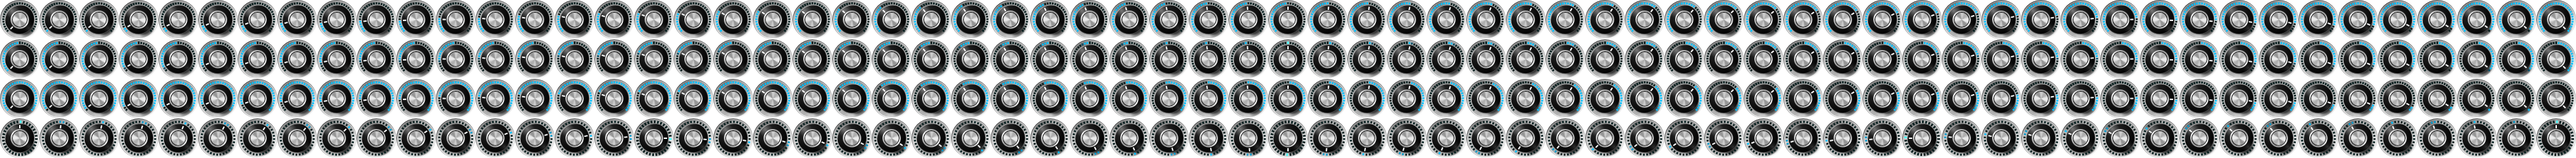
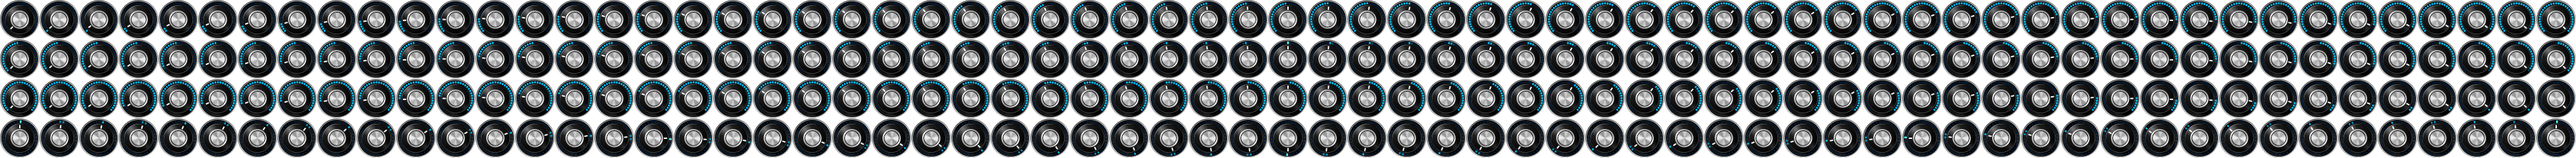
more cleanup in monosynth UI knob3 reworked (black ring)

Changed region(s): [[0.0, 0.0, 1.0, 1.0]]

diff --git a/src/metadata.cpp b/src/metadata.cpp
@@ -563,13 +563,13 @@ CALF_PORT_PROPS(multibandlimiter) = {
     
     { 0.2f,      -1.f,         1.f,   0,  PF_FLOAT | PF_SCALE_LINEAR | PF_CTL_KNOB | PF_UNIT_COEF | PF_PROP_GRAPH, NULL, "weight0", "Weight 1" },
     { -0.2f,      -1.f,         1.f,   0,  PF_FLOAT | PF_SCALE_LINEAR | PF_CTL_KNOB | PF_UNIT_COEF | PF_PROP_GRAPH, NULL, "weight1", "Weight 2" },
-    { 0.1f,      -1.f,         1.f,   0,  PF_FLOAT | PF_SCALE_LINEAR | PF_CTL_KNOB | PF_UNIT_COEF | PF_PROP_GRAPH, NULL, "weight2", "Weight 3" },
-    { 0.f,      -1.f,         1.f,   0,  PF_FLOAT | PF_SCALE_LINEAR | PF_CTL_KNOB | PF_UNIT_COEF | PF_PROP_GRAPH, NULL, "weight3", "Weight 4" },
+    { 0.2f,      -1.f,         1.f,   0,  PF_FLOAT | PF_SCALE_LINEAR | PF_CTL_KNOB | PF_UNIT_COEF | PF_PROP_GRAPH, NULL, "weight2", "Weight 3" },
+    { -0.2f,      -1.f,         1.f,   0,  PF_FLOAT | PF_SCALE_LINEAR | PF_CTL_KNOB | PF_UNIT_COEF | PF_PROP_GRAPH, NULL, "weight3", "Weight 4" },
     
-    { 0.4f,      -1.f,         1.f,   0,  PF_FLOAT | PF_SCALE_LINEAR | PF_CTL_KNOB | PF_UNIT_COEF | PF_PROP_GRAPH, NULL, "release0", "Release 1" },
+    { 0.5f,      -1.f,         1.f,   0,  PF_FLOAT | PF_SCALE_LINEAR | PF_CTL_KNOB | PF_UNIT_COEF | PF_PROP_GRAPH, NULL, "release0", "Release 1" },
     { 0.2f,      -1.f,         1.f,   0,  PF_FLOAT | PF_SCALE_LINEAR | PF_CTL_KNOB | PF_UNIT_COEF | PF_PROP_GRAPH, NULL, "release1", "Release 2" },
-    { 0.f,      -1.f,         1.f,   0,  PF_FLOAT | PF_SCALE_LINEAR | PF_CTL_KNOB | PF_UNIT_COEF | PF_PROP_GRAPH, NULL, "release2", "Release 3" },
-    { -0.2f,      -1.f,         1.f,   0,  PF_FLOAT | PF_SCALE_LINEAR | PF_CTL_KNOB | PF_UNIT_COEF | PF_PROP_GRAPH, NULL, "release3", "Release 4" },
+    { -0.2f,      -1.f,         1.f,   0,  PF_FLOAT | PF_SCALE_LINEAR | PF_CTL_KNOB | PF_UNIT_COEF | PF_PROP_GRAPH, NULL, "release2", "Release 3" },
+    { -0.5f,      -1.f,         1.f,   0,  PF_FLOAT | PF_SCALE_LINEAR | PF_CTL_KNOB | PF_UNIT_COEF | PF_PROP_GRAPH, NULL, "release3", "Release 4" },
     
     { 0,           0,           1,     0,  PF_BOOL | PF_CTL_TOGGLE, NULL, "solo0", "Solo 1" },
     { 0,           0,           1,     0,  PF_BOOL | PF_CTL_TOGGLE, NULL, "solo1", "Solo 2" },

diff --git a/knobs/knob3.py b/knobs/knob3.py
@@ -94,7 +94,7 @@ for variant in range(0, 4):
             if variant == 2: lit = pvalue == 0 or pvalue < lvalue
             if not lit:
                 if not glowlit:
-                    ctx.set_source_rgb(0.0, 0.1, 0.1)
+                    ctx.set_source_rgba(0.0, 0.1, 0.2, 0.6)
                 else:
                     ctx.set_source_rgb(0.0 * glowval, 0.75 * glowval, 1.0 * glowval)
             else:
